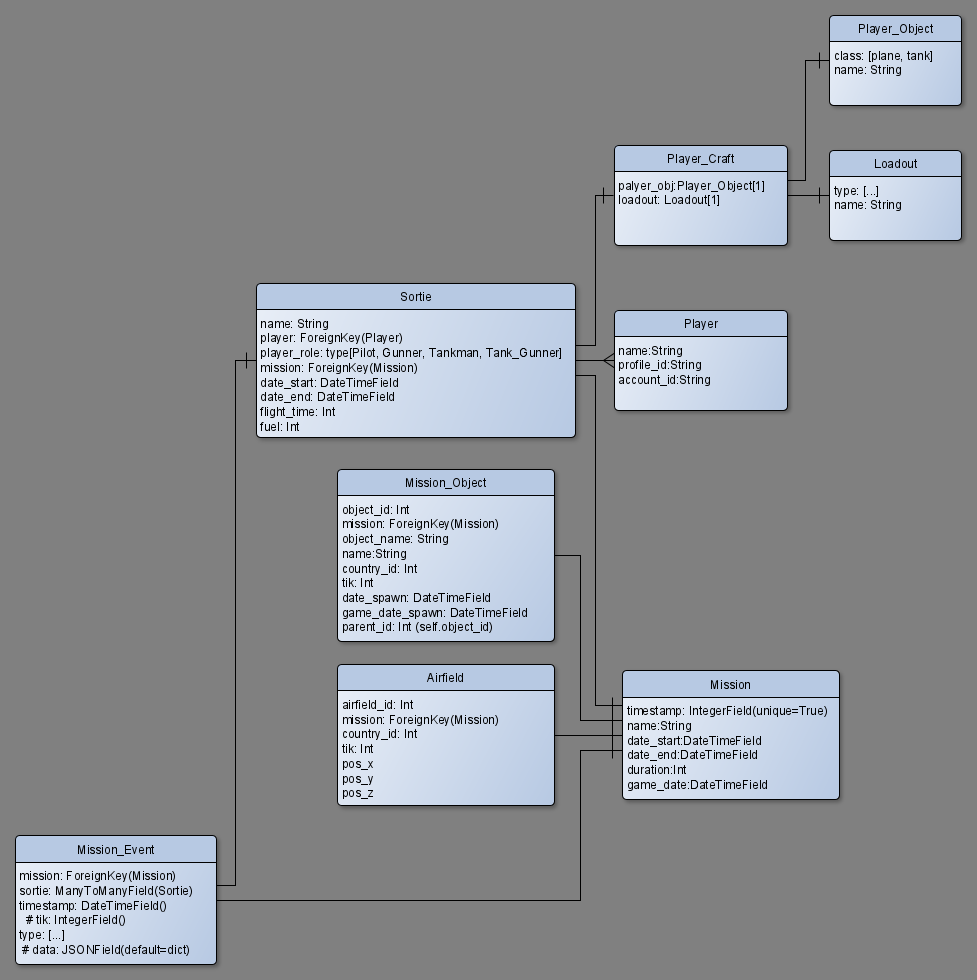
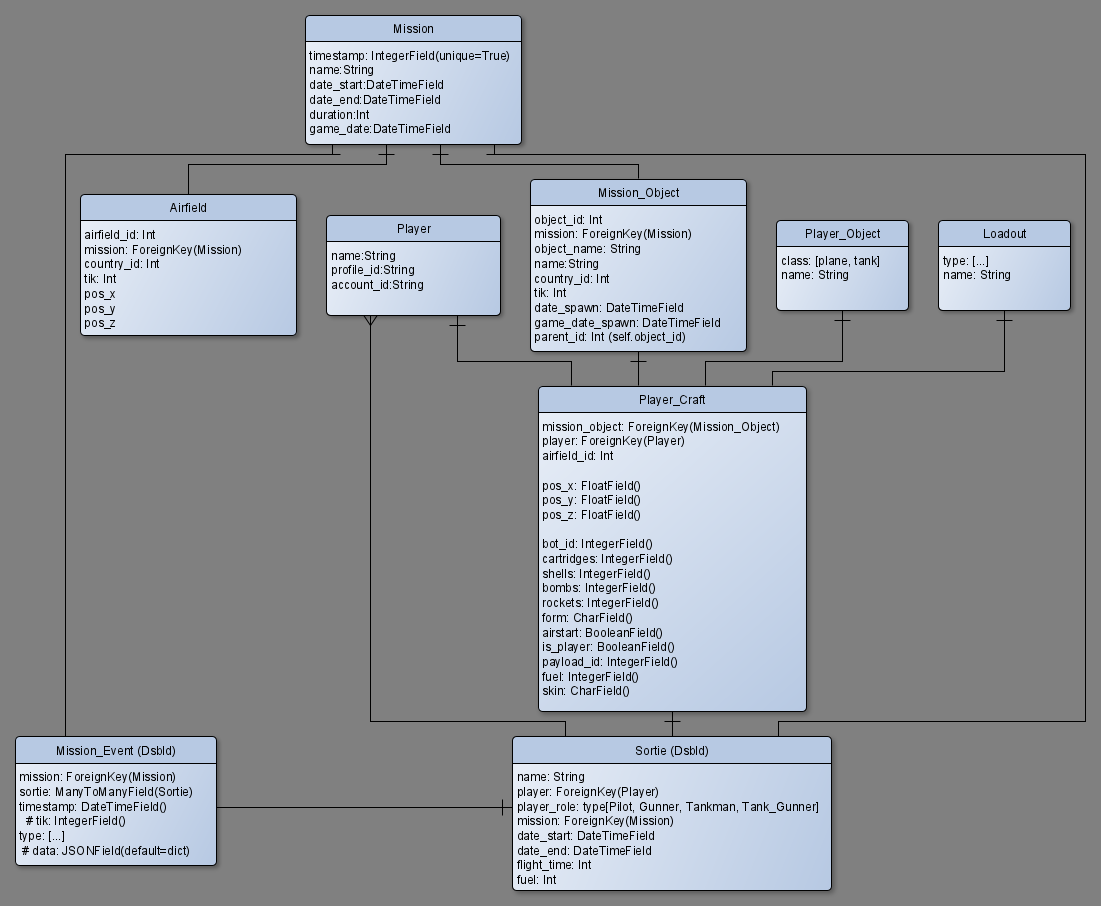
player pane event processing added

diff --git a/data/migrations/0001_initial.py b/data/migrations/0001_initial.py
@@ -1,4 +1,4 @@
-# Generated by Django 3.1 on 2020-08-09 15:20
+# Generated by Django 3.1 on 2020-08-09 17:36
 
 from django.db import migrations, models
 import django.db.models.deletion
@@ -31,6 +31,21 @@ class Migration(migrations.Migration):
                 ('name', models.CharField(max_length=25)),
                 ('miss_log_id', models.IntegerField(db_index=True, default=0)),
                 ('is_processed', models.BooleanField(default=False, editable=False)),
+            ],
+        ),
+        migrations.CreateModel(
+            name='Mission_Object',
+            fields=[
+                ('id', models.AutoField(auto_created=True, primary_key=True, serialize=False, verbose_name='ID')),
+                ('object_id', models.IntegerField(unique=True)),
+                ('object_name', models.CharField(max_length=128)),
+                ('name', models.CharField(max_length=128)),
+                ('country_id', models.IntegerField()),
+                ('tik', models.IntegerField()),
+                ('date_spawn', models.DateTimeField(blank=True, null=True)),
+                ('game_date_spawn', models.DateTimeField(blank=True, null=True)),
+                ('parent_id', models.IntegerField(blank=True, null=True)),
+                ('mission', models.ForeignKey(on_delete=django.db.models.deletion.CASCADE, to='data.mission')),
             ],
         ),
         migrations.CreateModel(
@@ -101,6 +116,29 @@ class Migration(migrations.Migration):
             ],
         ),
         migrations.CreateModel(
+            name='Player_Craft',
+            fields=[
+                ('id', models.AutoField(auto_created=True, primary_key=True, serialize=False, verbose_name='ID')),
+                ('airfield', models.IntegerField(blank=True, null=True)),
+                ('pos_x', models.FloatField(blank=True, null=True)),
+                ('pos_y', models.FloatField(blank=True, null=True)),
+                ('pos_z', models.FloatField(blank=True, null=True)),
+                ('bot_id', models.IntegerField(blank=True, null=True)),
+                ('cartridges', models.IntegerField(blank=True, null=True)),
+                ('shells', models.IntegerField(blank=True, null=True)),
+                ('bombs', models.IntegerField(blank=True, null=True)),
+                ('rockets', models.IntegerField(blank=True, null=True)),
+                ('form', models.CharField(max_length=128)),
+                ('airstart', models.BooleanField()),
+                ('is_pilot', models.BooleanField()),
+                ('payload_id', models.IntegerField(blank=True, null=True)),
+                ('fuel', models.IntegerField(blank=True, null=True)),
+                ('skin', models.CharField(max_length=128)),
+                ('mission_object', models.ForeignKey(on_delete=django.db.models.deletion.CASCADE, to='data.mission_object')),
+                ('player', models.ForeignKey(on_delete=django.db.models.deletion.CASCADE, to='data.player')),
+            ],
+        ),
+        migrations.CreateModel(
             name='Object',
             fields=[
                 ('id', models.AutoField(auto_created=True, primary_key=True, serialize=False, verbose_name='ID')),
@@ -117,21 +155,6 @@ class Migration(migrations.Migration):
                 'db_table': 'objects',
                 'ordering': ['name'],
             },
-        ),
-        migrations.CreateModel(
-            name='Mission_Object',
-            fields=[
-                ('id', models.AutoField(auto_created=True, primary_key=True, serialize=False, verbose_name='ID')),
-                ('object_id', models.IntegerField()),
-                ('object_name', models.CharField(max_length=128)),
-                ('name', models.CharField(max_length=128)),
-                ('country_id', models.IntegerField()),
-                ('tik', models.IntegerField()),
-                ('date_spawn', models.DateTimeField(blank=True, null=True)),
-                ('game_date_spawn', models.DateTimeField(blank=True, null=True)),
-                ('parent_id', models.IntegerField(blank=True, null=True)),
-                ('mission', models.ForeignKey(on_delete=django.db.models.deletion.CASCADE, to='data.mission')),
-            ],
         ),
         migrations.CreateModel(
             name='Mission_Event',

diff --git a/handlers.py b/handlers.py
@@ -20,7 +20,7 @@ os.environ.setdefault("DJANGO_SETTINGS_MODULE", "settings")
 from django.core.wsgi import get_wsgi_application
 application = get_wsgi_application()
 
-from data.models import Airfield, Mission, Mission_Object
+from data.models import Airfield, Mission, Mission_Object, Player, Player_Craft
 
 logger = logging.getLogger(__name__)
 global mission, tik_last
@@ -371,11 +371,59 @@ def event_airfield(**kwargs):
                           tik = kwargs['tik'], pos_x=kwargs['pos']['x'], pos_y=kwargs['pos']['y'],
                           pos_z=kwargs['pos']['z'])
         airfield.save()
-    pass
 
 
-def event_player_plane():
-    pass
+def player_upd(**kwargs):
+    if Player.objects.filter(profile_id=kwargs['profile_id'], account_id=kwargs['account_id']).exists():
+        logger.info(f"Player [{kwargs['profile_id']}] - exists in the DB")
+        player = Player.objects.get(profile_id=kwargs['profile_id'], account_id=kwargs['account_id'])
+    else:
+        # Add Player
+        name = ''
+        if 'name' in kwargs:
+            name = kwargs['name']
+        player = Player(profile_id=kwargs['profile_id'], account_id=kwargs['account_id'], name=name)
+        player.save()
+
+    return player
+
+
+def event_player_plane(**kwargs):
+    player = player_upd(**kwargs)
+    #player = player.id
+    #print(f"Player={player}")
+
+    mission_obj = Mission_Object.objects.get(object_id=kwargs['aircraft_id'])
+    #mission_obj = mission_obj.object_id
+    #print(f"Object=object_id[{mission_obj.object_id}], object_name[{mission_obj.object_name}]")
+    #print(f"Object={mission_obj}")
+
+    pos_x = kwargs['pos']['x']
+    pos_y = kwargs['pos']['y']
+    pos_z = kwargs['pos']['z']
+
+    bot_id = kwargs["bot_id"]
+    cartridges = kwargs["cartridges"]
+    shells = kwargs["shells"]
+    bombs = kwargs["bombs"]
+    rockets = kwargs["rockets"]
+    form = kwargs["form"]
+    airstart = kwargs["airstart"]
+    is_pilot = kwargs["is_pilot"]
+    payload_id = kwargs["payload_id"]
+    fuel = kwargs["fuel"]
+    skin = kwargs["skin"]
+
+    if Player_Craft.objects.filter(player=player, mission_object=mission_obj).exists():
+        logger.info(f"Player_Craft [{mission_obj}] - exists in the DB")
+    else:
+        # Add player craft
+        player_craft = Player_Craft.objects.create(player=player, mission_object=mission_obj, bot_id=bot_id,
+                                                   cartridges=cartridges, shells=shells, bombs=bombs, rockets=rockets,
+                                                   form=form, airstart=airstart, is_pilot=is_pilot,
+                                                   payload_id=payload_id, fuel=fuel, skin=skin,
+                                                   pos_x=pos_x, pos_y=pos_y, pos_z=pos_z)
+        player_craft.save()
 
 
 def event_group(**kwargs):
@@ -398,9 +446,9 @@ def event_game_object(**kwargs):
 
         # Add object
         object = Mission_Object(mission=mission, object_id=kwargs['object_id'], parent_id=kwargs['parent_id'],
-                                object_name = kwargs['object_name'], name = kwargs['name'],
-                                country_id = kwargs['country_id'], tik = kwargs['tik'], date_spawn = date_spawn,
-                                game_date_spawn = game_date_spawn)
+                                object_name=kwargs['object_name'], name=kwargs['name'],
+                                country_id=kwargs['country_id'], tik=kwargs['tik'], date_spawn = date_spawn,
+                                game_date_spawn=game_date_spawn)
         object.save()
     pass
 

diff --git a/data/models.py b/data/models.py
@@ -182,6 +182,7 @@ class Player(models.Model):
     profile_id = models.CharField(max_length=40, null=True, db_index=True)
     account_id = models.CharField(max_length=40, null=True, db_index=True)
     name = models.CharField(max_length=128, null=True, db_index=True)
+
     # tour = models.ForeignKey(Tour, related_name='+', on_delete=models.CASCADE)
     """
     PLAYER_TYPES = (
@@ -442,8 +443,8 @@ class Mission_Event(models.Model):
 
 class Mission_Object(models.Model):
     mission = models.ForeignKey(Mission, on_delete=models.CASCADE)
-    #object_id = models.IntegerField(unique=True)
-    object_id = models.IntegerField()
+    object_id = models.IntegerField(unique=True)
+    #object_id = models.IntegerField()
     object_name = models.CharField(max_length=128)
     name = models.CharField(max_length=128)
     country_id = models.IntegerField()
@@ -461,4 +462,30 @@ class Airfield(models.Model):
     pos_x = models.FloatField(blank=True, null=True)
     pos_y = models.FloatField(blank=True, null=True)
     pos_z = models.FloatField(blank=True, null=True)
+
+
+class Player_Craft(models.Model):
+    mission_object = models.ForeignKey(Mission_Object, on_delete=models.CASCADE)
+    player = models.ForeignKey(Player, on_delete=models.CASCADE)
+    # mission_object = models.IntegerField(blank=True, null=True)
+    # player = models.IntegerField(blank=True, null=True)
+    airfield = models.IntegerField(blank=True, null=True)
+
+    pos_x = models.FloatField(blank=True, null=True)
+    pos_y = models.FloatField(blank=True, null=True)
+    pos_z = models.FloatField(blank=True, null=True)
+
+    bot_id = models.IntegerField(blank=True, null=True)
+    cartridges = models.IntegerField(blank=True, null=True)
+    shells = models.IntegerField(blank=True, null=True)
+    bombs = models.IntegerField(blank=True, null=True)
+    rockets = models.IntegerField(blank=True, null=True)
+    form = models.CharField(max_length=128)
+    airstart = models.BooleanField()
+    is_pilot = models.BooleanField()
+    payload_id = models.IntegerField(blank=True, null=True)
+    fuel = models.IntegerField(blank=True, null=True)
+    skin = models.CharField(max_length=128)
+
+
 
